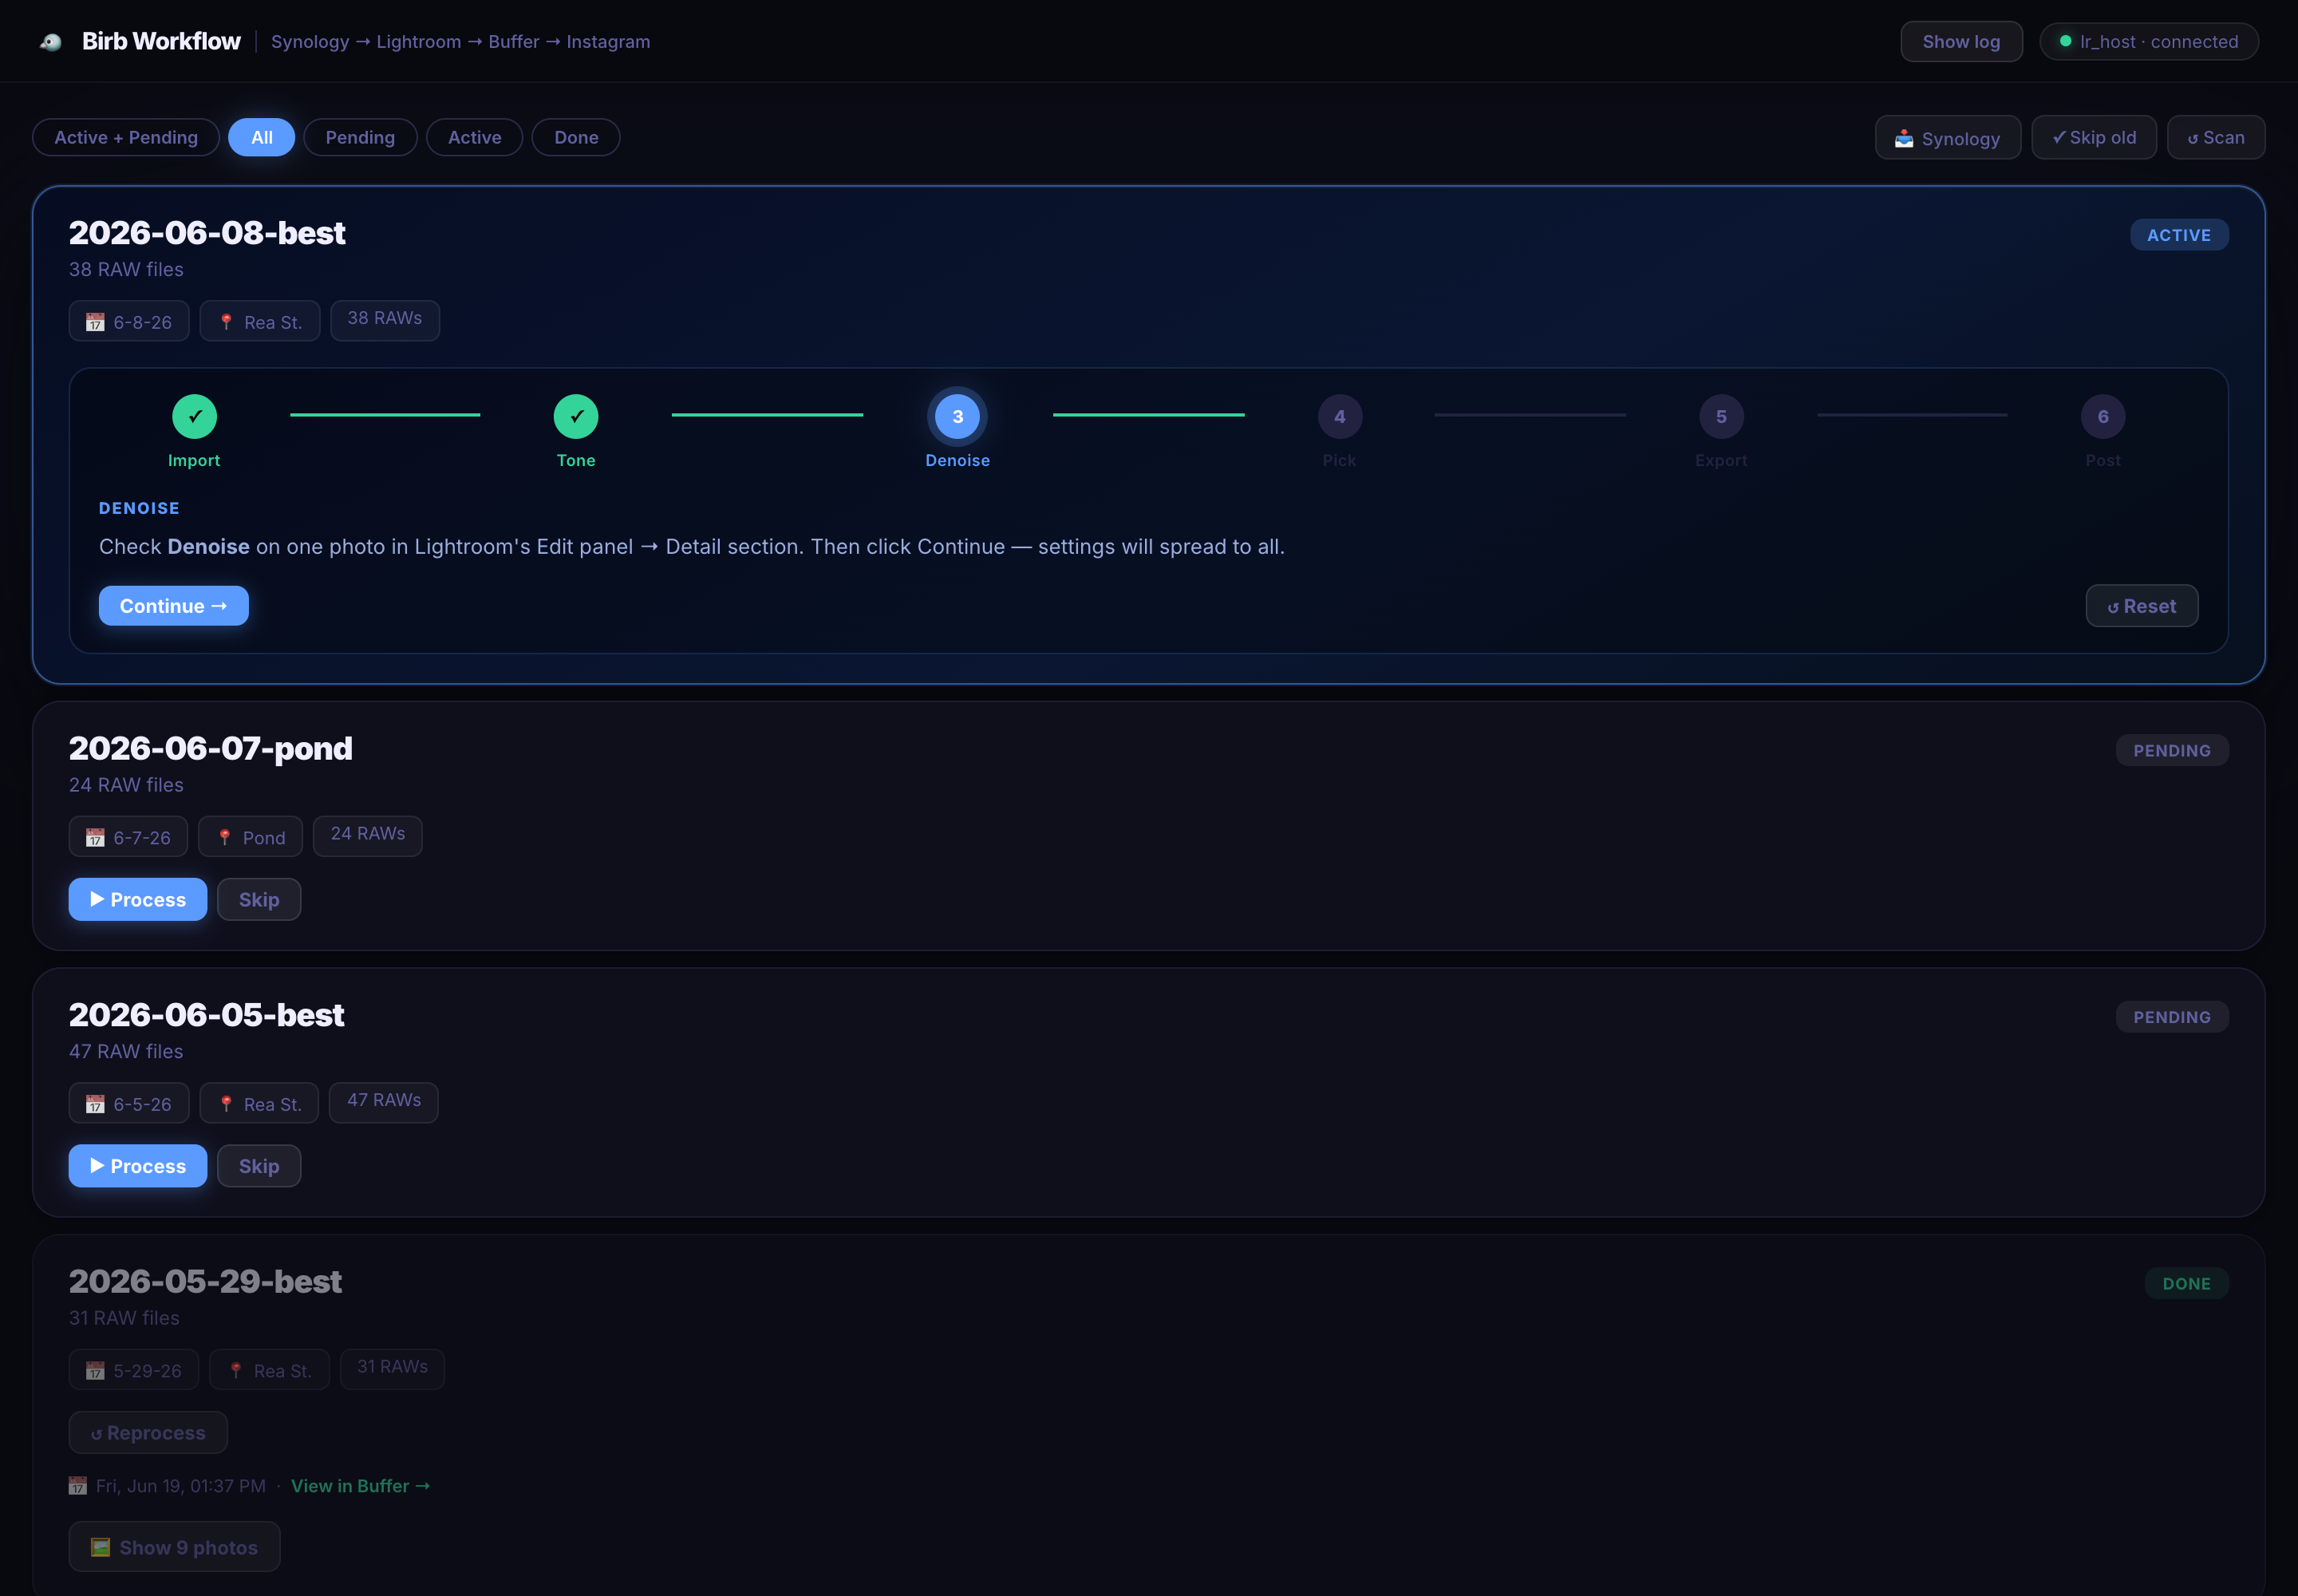
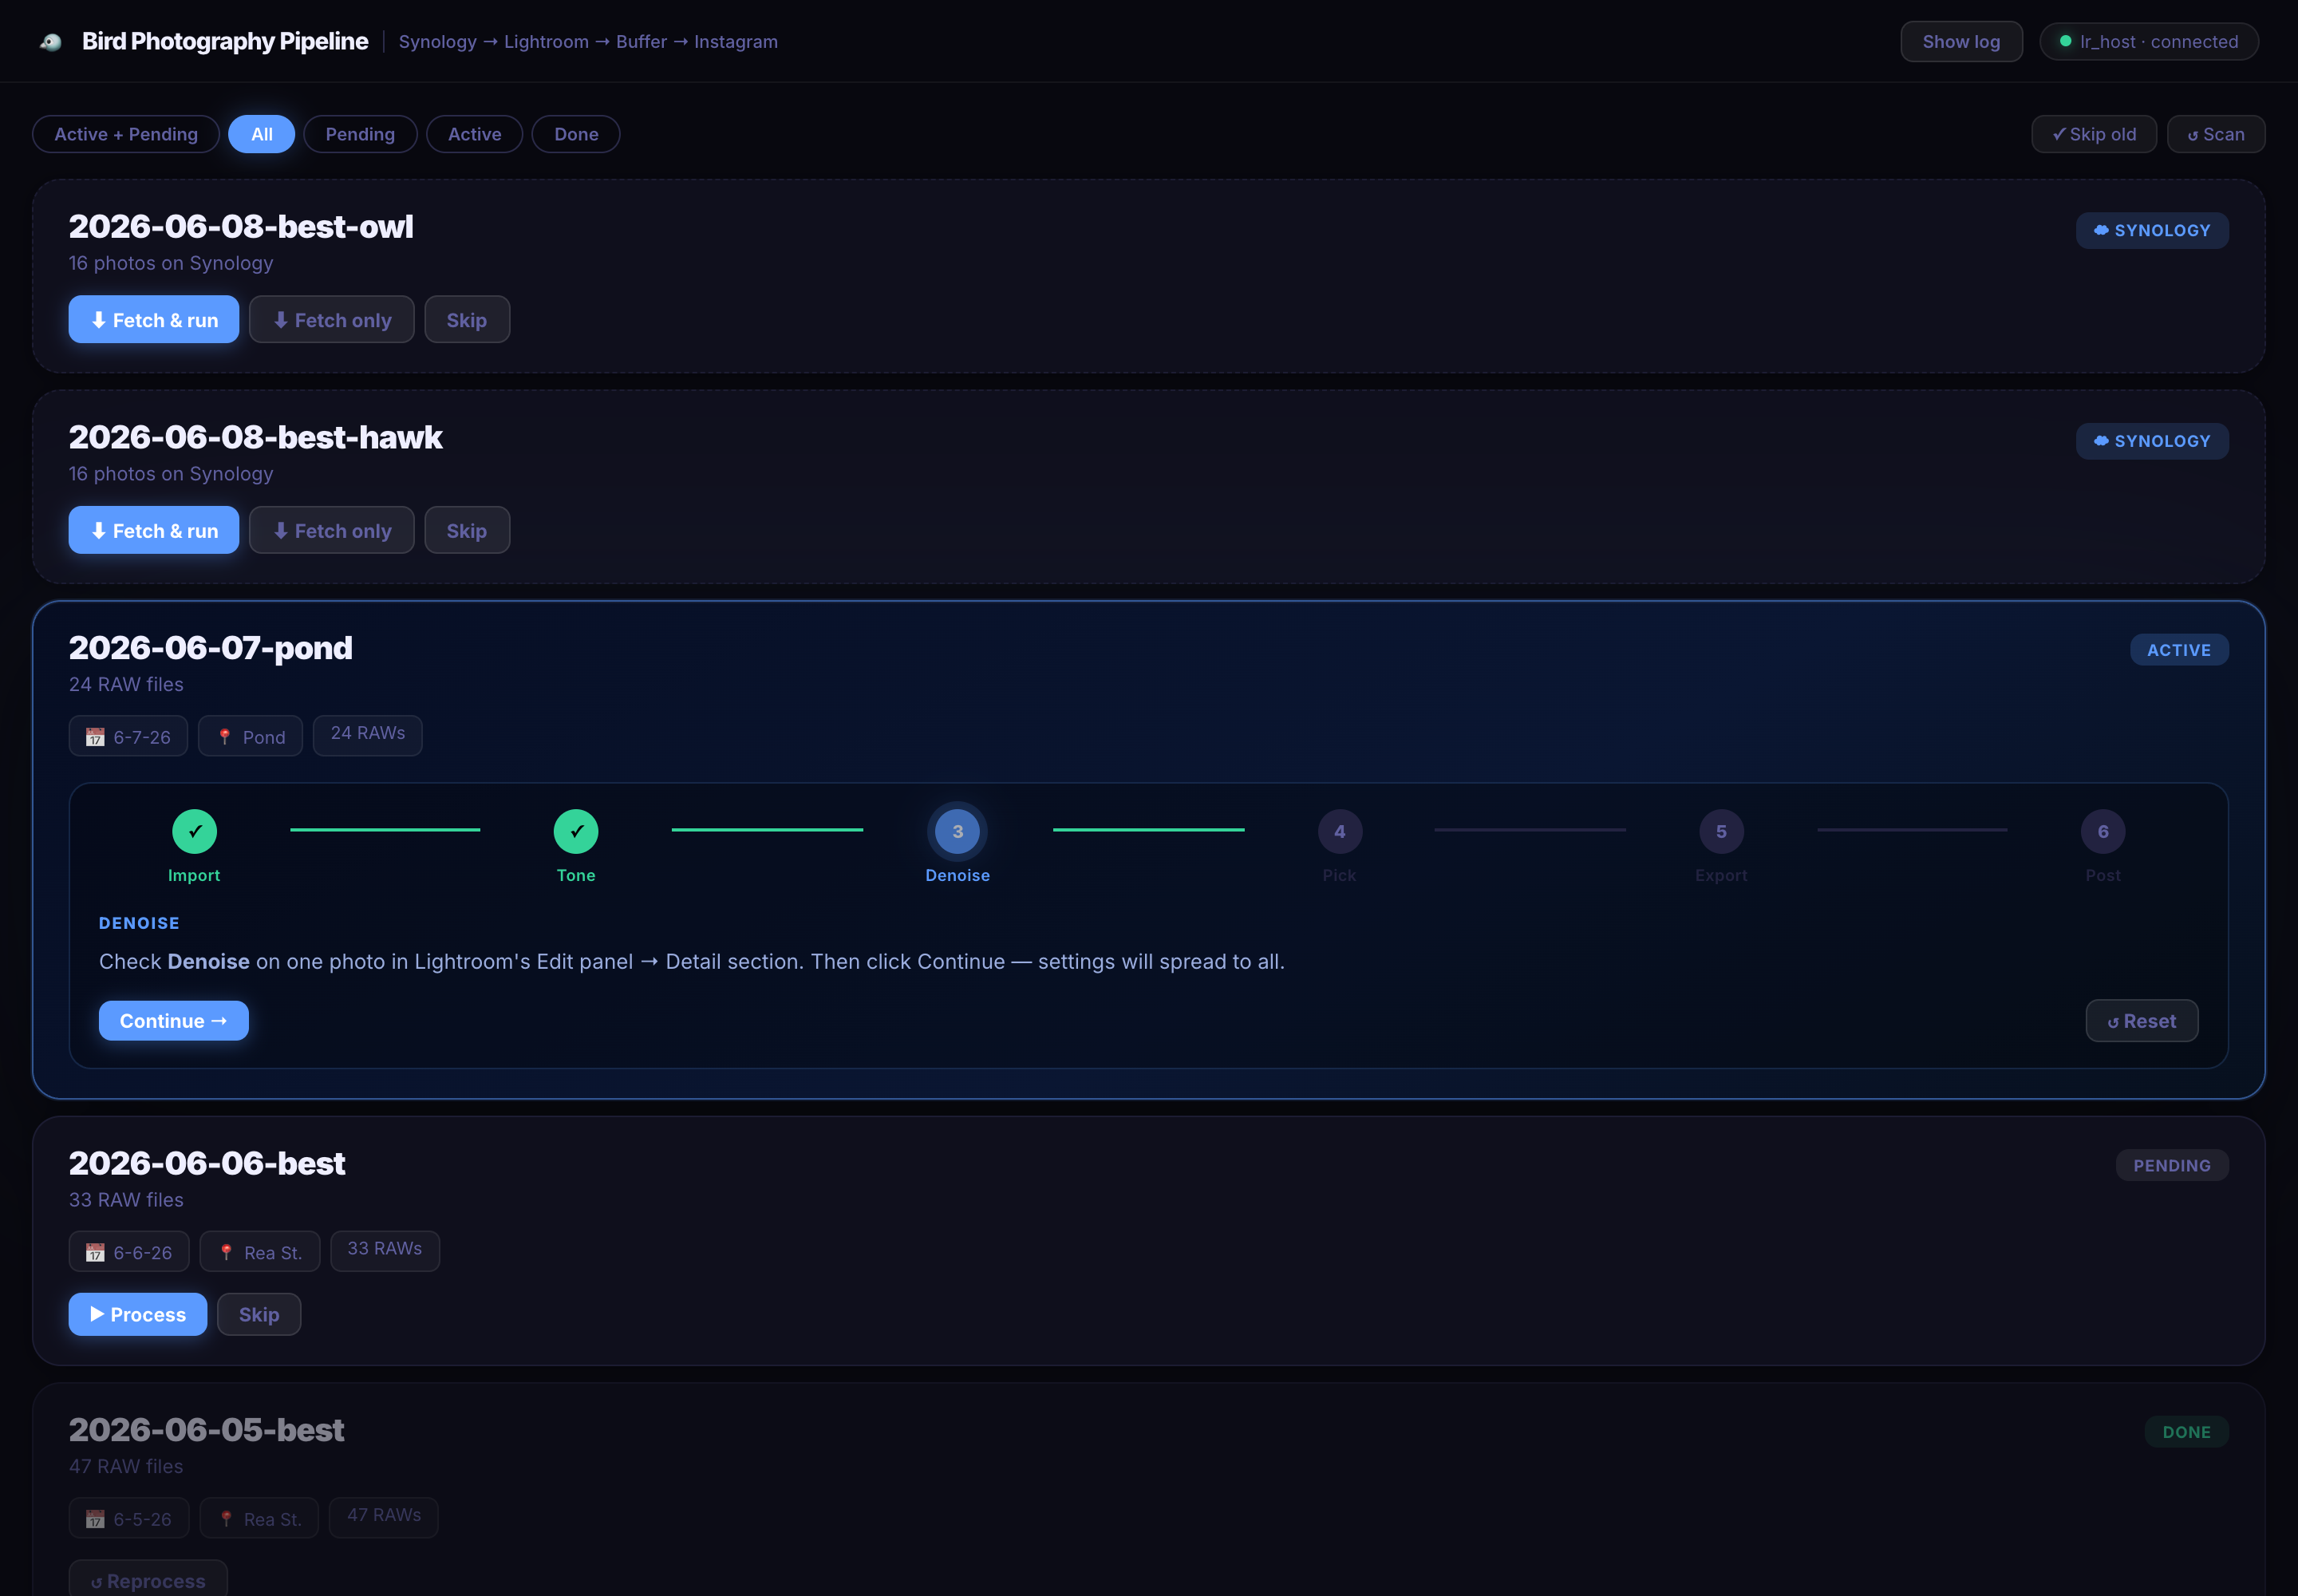
README: modernize with Synology-first flow + refreshed visuals
- Lead with the Synology "Fetch & run" front door; add an animated
  synology-fetch.gif demo (album card → live progress → running batch).
- Re-render dashboard, lanes, and single-post assets with the new branding
  (Bird Photography Pipeline) and the unified Synology+pipeline list.
- Note Synology env vars + requirement.

diff --git a/README.md b/README.md
@@ -2,7 +2,7 @@
 
 **A one-screen pipeline for bird photography: Synology → Lightroom → Buffer → Instagram.**
 
-Drop a folder of RAWs in `~/Downloads`, and Bird Photography Pipeline walks it through import, auto-tone, denoise, picking, and export in Lightroom Classic — then resizes, captions, splits, and schedules the keepers to Instagram via Buffer. All from a single dark-mode web UI.
+Pick an album in Synology Photos, hit **Fetch & run**, and the pipeline pulls the RAWs and walks them through import, auto-tone, denoise, picking, and export in Lightroom Classic — then resizes, captions, splits, and schedules the keepers to Instagram via Buffer. All from a single dark-mode web UI.
 
 ![Dashboard](docs/dashboard.png)
 
@@ -13,6 +13,19 @@ Drop a folder of RAWs in `~/Downloads`, and Bird Photography Pipeline walks it t
 These shots happen on neighborhood walks — dog on the leash, one-year-old riding on my back, camera over the shoulder. You get home with a few hundred RAWs and a handful of keepers, and the tedious part is everything *after* the shutter: repetitive Lightroom clicking, manual resizing, caption typing, and Buffer queue juggling — especially when a good walk turns into several posts (Instagram caps carousels at 10 images).
 
 Bird Photography Pipeline automates the mechanical parts and keeps the judgment calls (which shots, which species, how to group) one drag away.
+
+---
+
+## Start from Synology
+
+Your Synology Photos albums show up right in the batch list as cards. Hit **⬇ Fetch & run** and it downloads the RAW originals (with a live progress bar) and kicks off the whole pipeline — no manual file shuffling.
+
+![Fetch an album from Synology](docs/synology-fetch.gif)
+
+- Recent albums surface automatically; older/posted/skipped ones tuck behind a toggle.
+- **Skip** hides albums you'll never post; posted albums are remembered so they don't resurface.
+- Originals stay safe on the NAS, so local RAWs are auto-deleted after a successful post to reclaim disk.
+- Prefer manual? Drop a `YYYY-MM-DD-<suffix>` folder of RAWs into `~/Downloads` and it appears as a batch too.
 
 ---
 
@@ -57,6 +70,7 @@ A single post (≤ 10 photos) keeps it simple — one carousel, with a manual sc
 - **Python 3.12** (pyenv or system)
 - **Chrome** logged in to [publish.buffer.com](https://publish.buffer.com)
 - A Buffer API token → [publish.buffer.com/settings/api](https://publish.buffer.com/settings/api)
+- *(optional)* **Synology Photos** + a DSM account, for the Fetch-from-NAS front door (creds in `.env`)
 
 ### Install & run
 
@@ -156,6 +170,7 @@ Lightroom Classic                  import · tone · denoise · export
 |----------|----------|-------------|
 | `BUFFER_TOKEN` | Yes | Buffer API bearer token |
 | `BUFFER_COOKIES` | Auto | Set by `bird up` / `start.sh` from your Chrome session |
+| `SYNO_HOST` / `SYNO_USER` / `SYNO_PASS` | For Synology | DSM host + account for the Fetch-from-NAS front door (in `.env`; a device token is cached after a one-time 2FA code so logins stay unattended) |
 | `MAC_HOME` | No | Home dir inside Docker for path translation (default `/Users/scott`) |
 
 ---